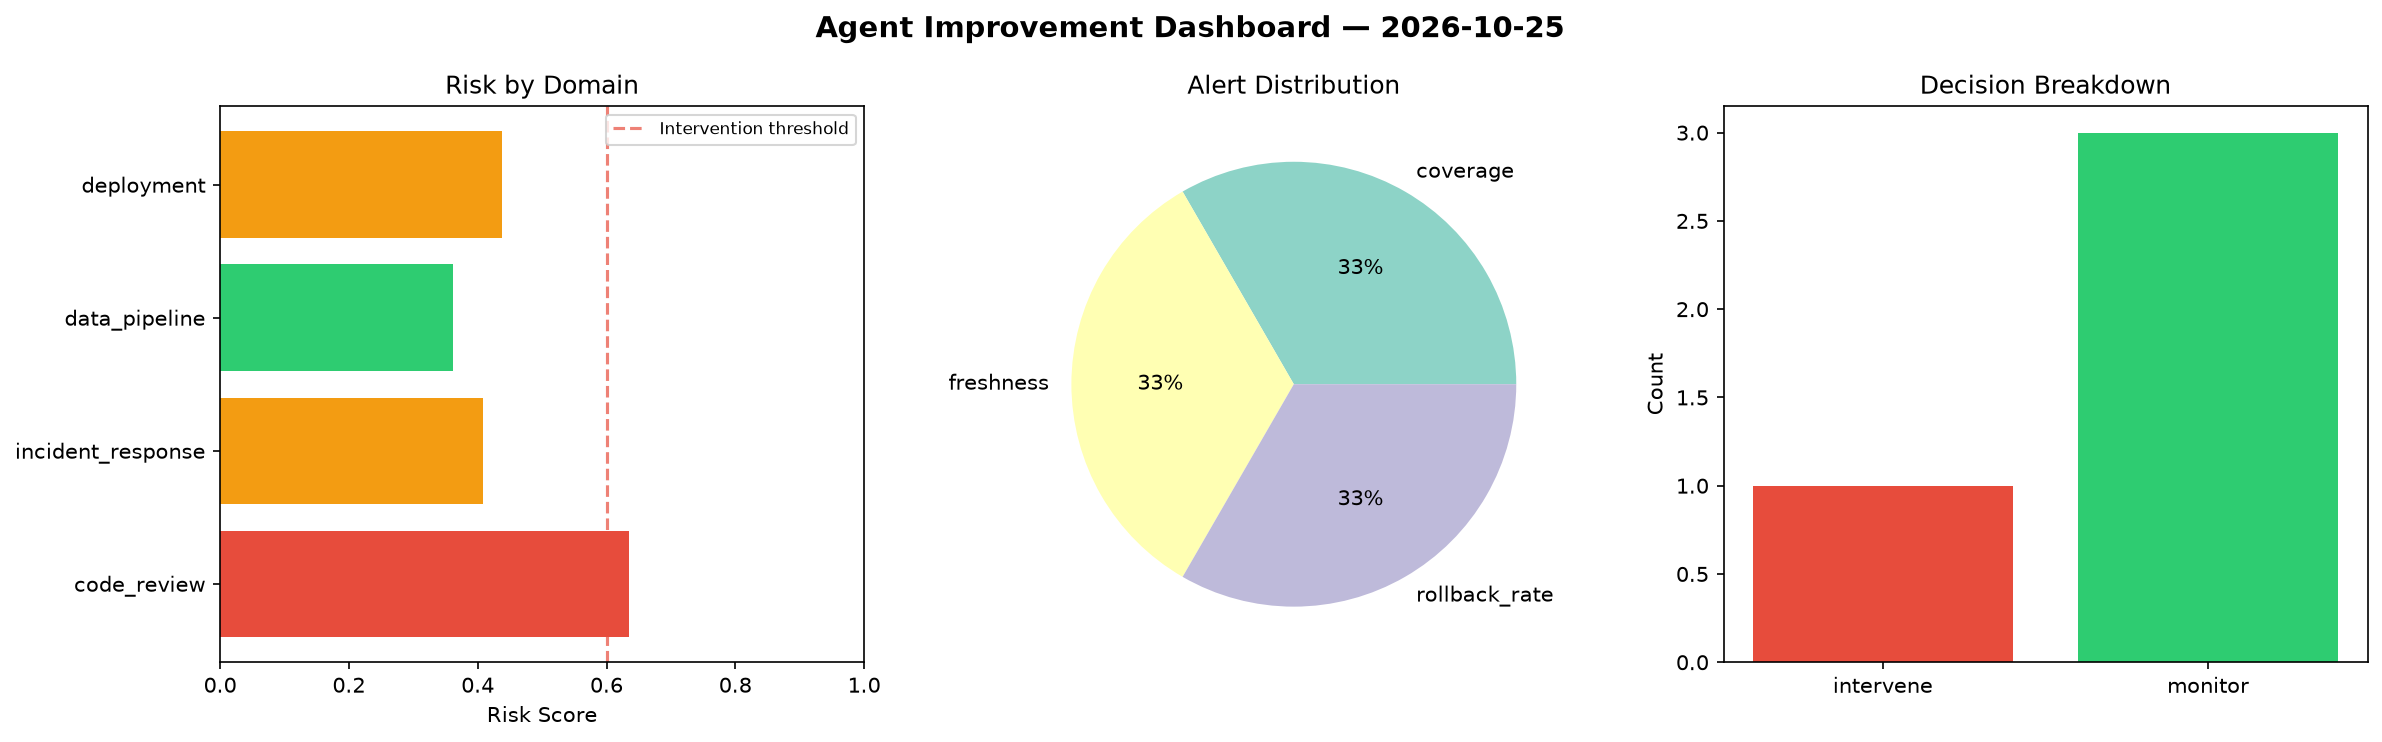
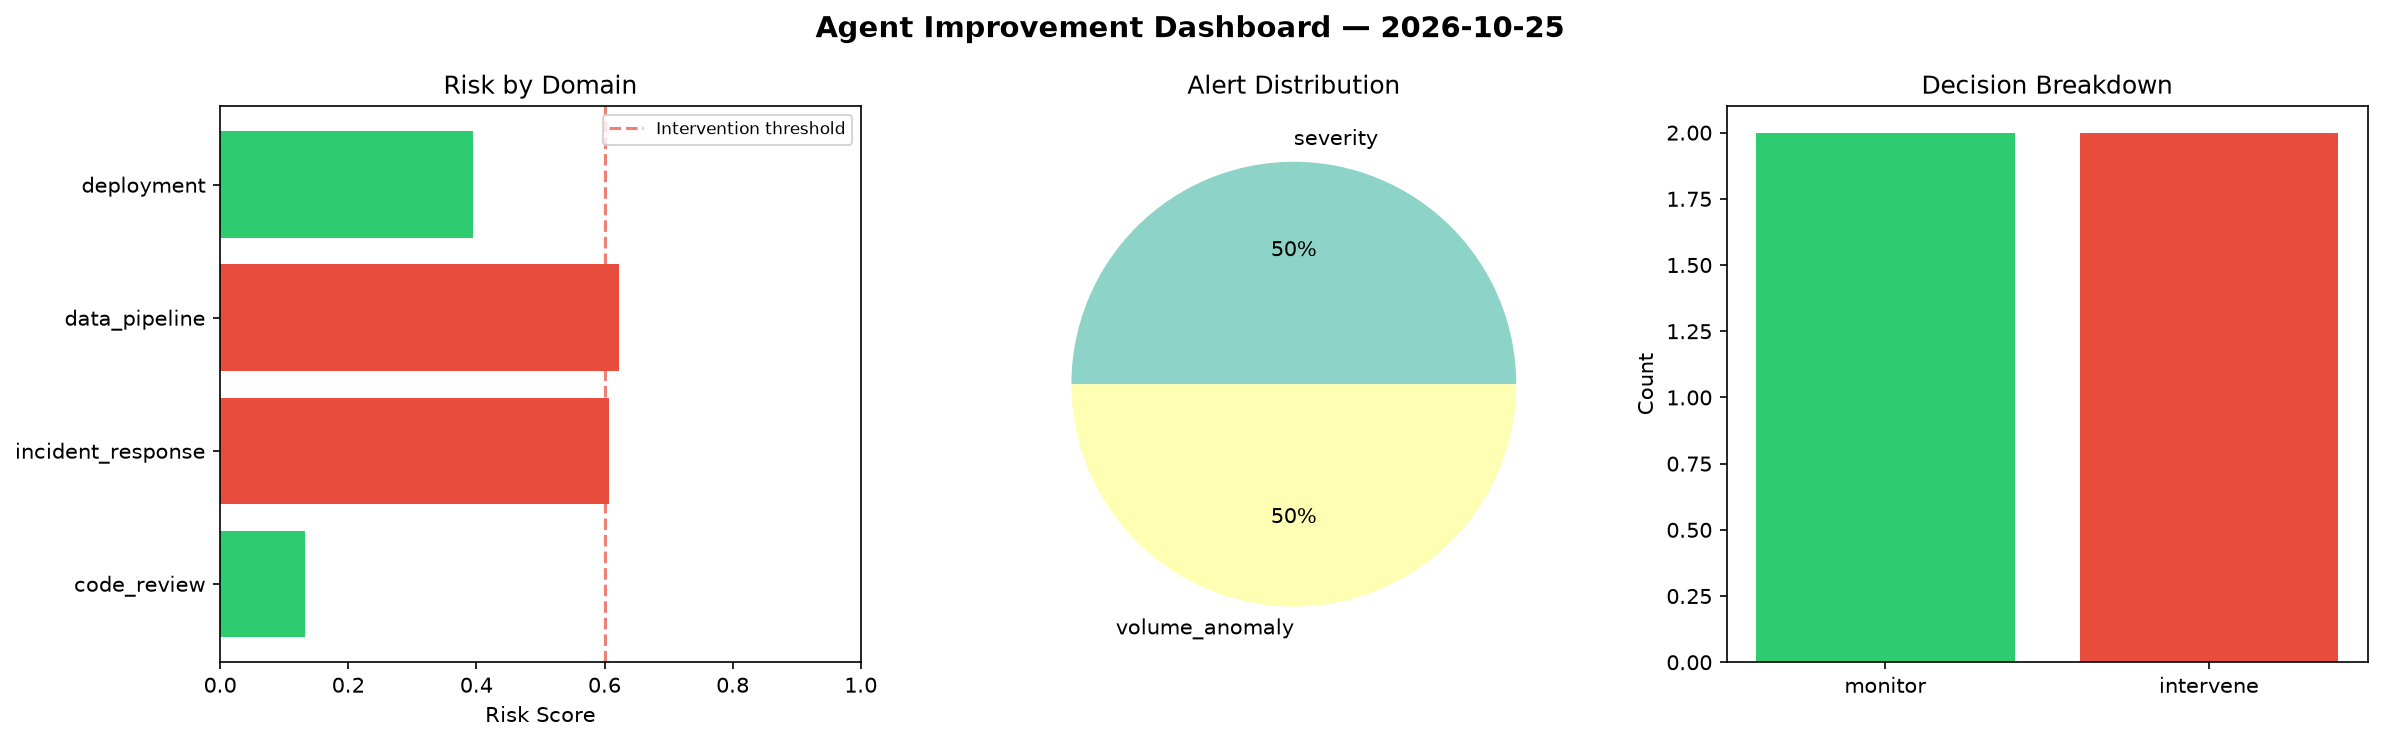
agent-improvement: daily cycle 2026-10-25T13:10

diff --git a/logs/2026-10-25.md b/logs/2026-10-25.md
@@ -1,6 +1,6 @@
 # Agent Improvement Report — 2026-10-25
 
-**Cycle ID:** `92adb8d3` | **Avg Risk:** 0.4608 | **Interventions:** 1/4
+**Cycle ID:** `d7c5c180` | **Avg Risk:** 0.4388 | **Interventions:** 2/4
 
 ![Dashboard](2026-10-25_dashboard.png)
 
@@ -10,18 +10,18 @@
 
 | Domain | Risk Score | Decision | Alerts |
 |--------|-----------|----------|--------|
-| code_review | 0.6353 | intervene | coverage |
-| incident_response | 0.4084 | monitor | none |
-| data_pipeline | 0.3612 | monitor | freshness |
-| deployment | 0.4382 | monitor | rollback_rate |
+| code_review | 0.133 | monitor | none |
+| incident_response | 0.6063 | intervene | severity |
+| data_pipeline | 0.6219 | intervene | volume_anomaly |
+| deployment | 0.3942 | monitor | none |
 
 ## Delta vs Yesterday
 
 | Domain | Today | Yesterday | Change |
 |--------|-------|-----------|--------|
-| code_review | 0.6353 | 0.6663 | 📉 -4.7% |
-| incident_response | 0.4084 | 0.5285 | 📉 -22.7% |
-| data_pipeline | 0.3612 | 0.3473 | 📈 4.0% |
-| deployment | 0.4382 | 0.4362 | 📈 0.5% |
+| code_review | 0.133 | 0.6663 | 📉 -80.0% |
+| incident_response | 0.6063 | 0.5285 | 📈 14.7% |
+| data_pipeline | 0.6219 | 0.3473 | 📈 79.1% |
+| deployment | 0.3942 | 0.4362 | 📉 -9.6% |
 
-**Refinement:** `{'adjustment': 'maintain', 'trend': 'improving', 'window': 4}`
+**Refinement:** `{'adjustment': 'tighten_thresholds', 'trend': 'degrading', 'window': 4}`
